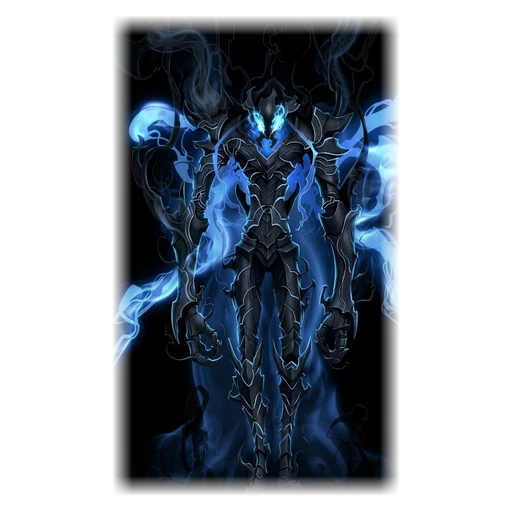
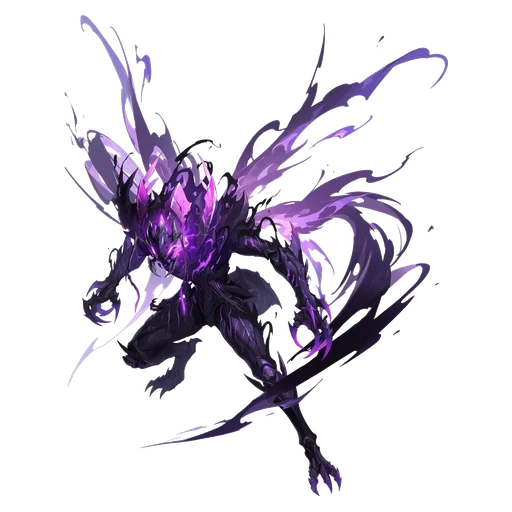
Nueva imagen de Beru (fondo blanco quitado, color morado)

diff --git a/prototipo/js/datos/invocaciones.js b/prototipo/js/datos/invocaciones.js
@@ -41,8 +41,8 @@ export const INVOCACIONES = {
     acciones: [{ tipo: 'robarHP', pct: .05, a: { azar: 2 } }],
   },
   beru: {
-    nombre: 'Beru', rareza: 'Épico', emoji: '🐜', color: 0x3b82f6, imagen: 'assets/invocaciones/beru.webp', dur: 3,
-    luminosa: true, enfoque: [.52, .24],
+    nombre: 'Beru', rareza: 'Épico', emoji: '🐜', color: 0xa855f7, imagen: 'assets/invocaciones/beru.webp', dur: 3,
+    enfoque: [.37, .41],
     desc: 'Golpea 2 veces (30%) a un enemigo al azar y aplica Sangrado o Veneno (50/50).',
     acciones: [{ tipo: 'golpe', pct: .30, golpes: 2, elegir: 'azar', efectos: [{ accion: { tipo: 'efecto', idAzar: ['bleed', 'poison'] } }] }],
   },
